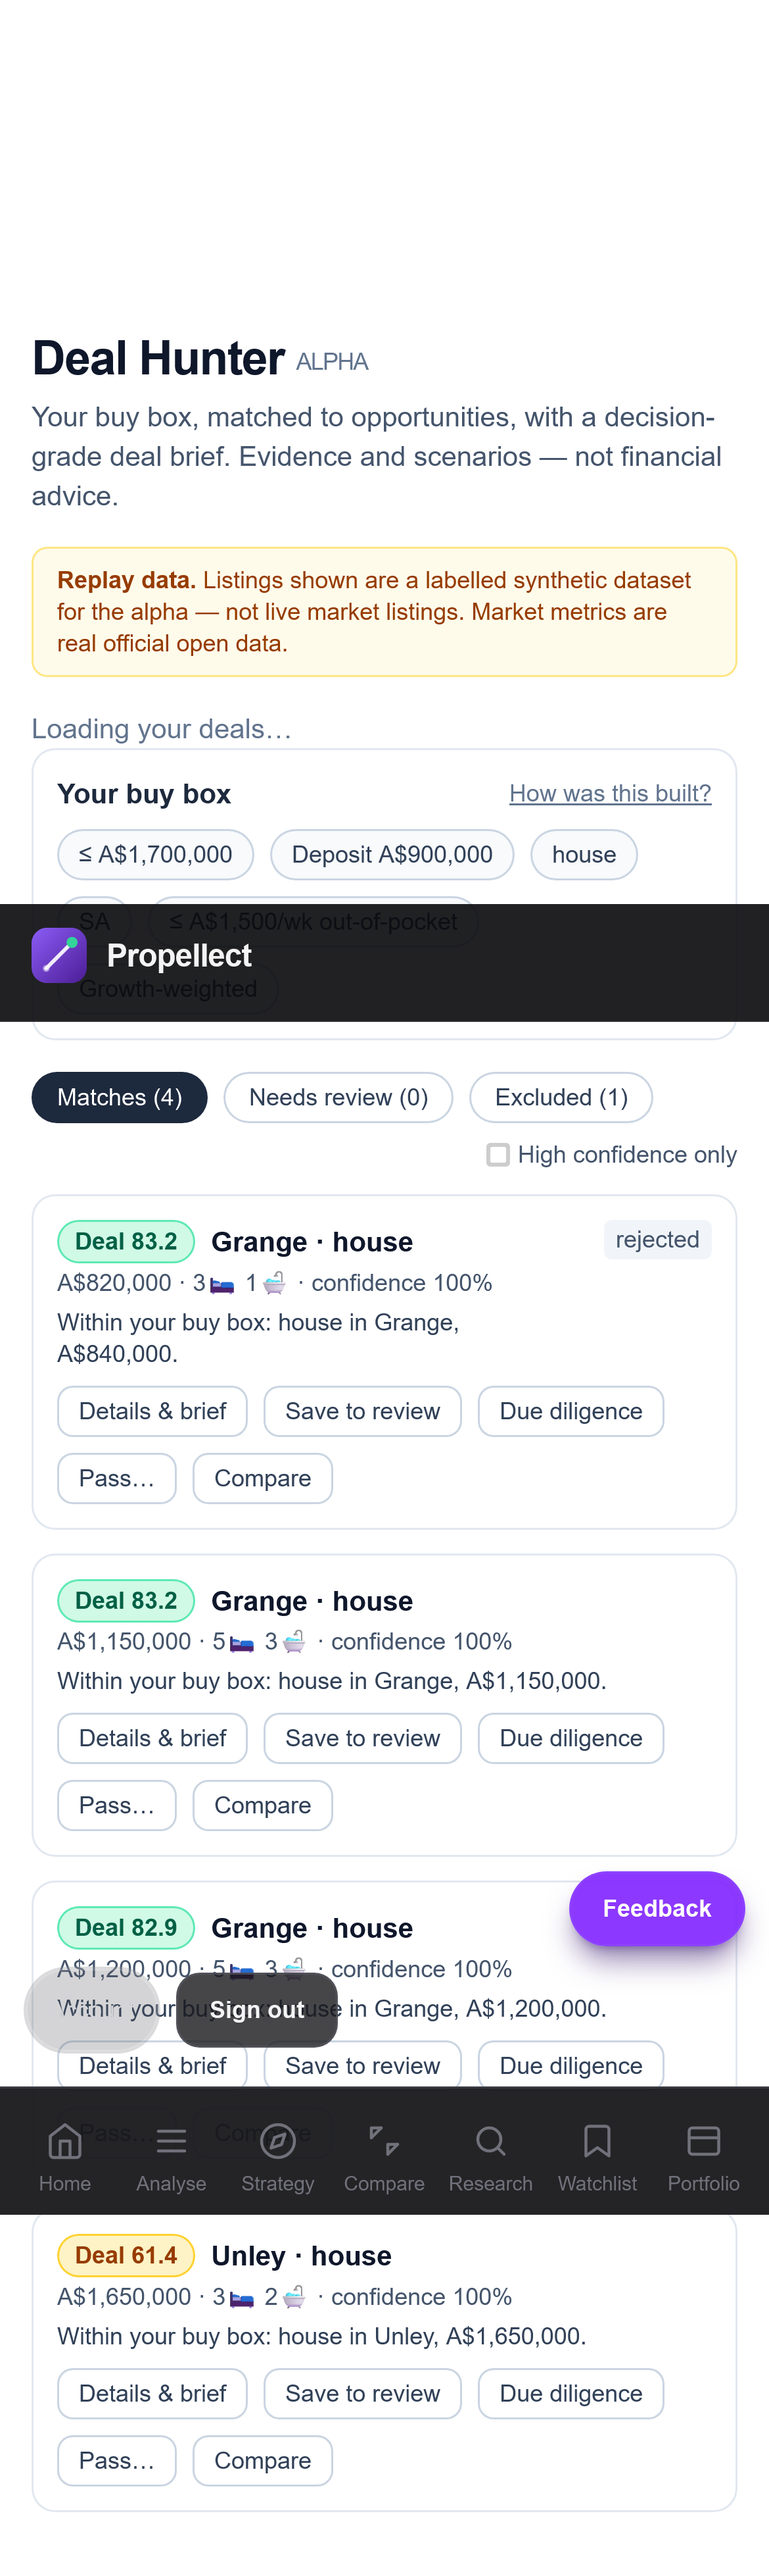
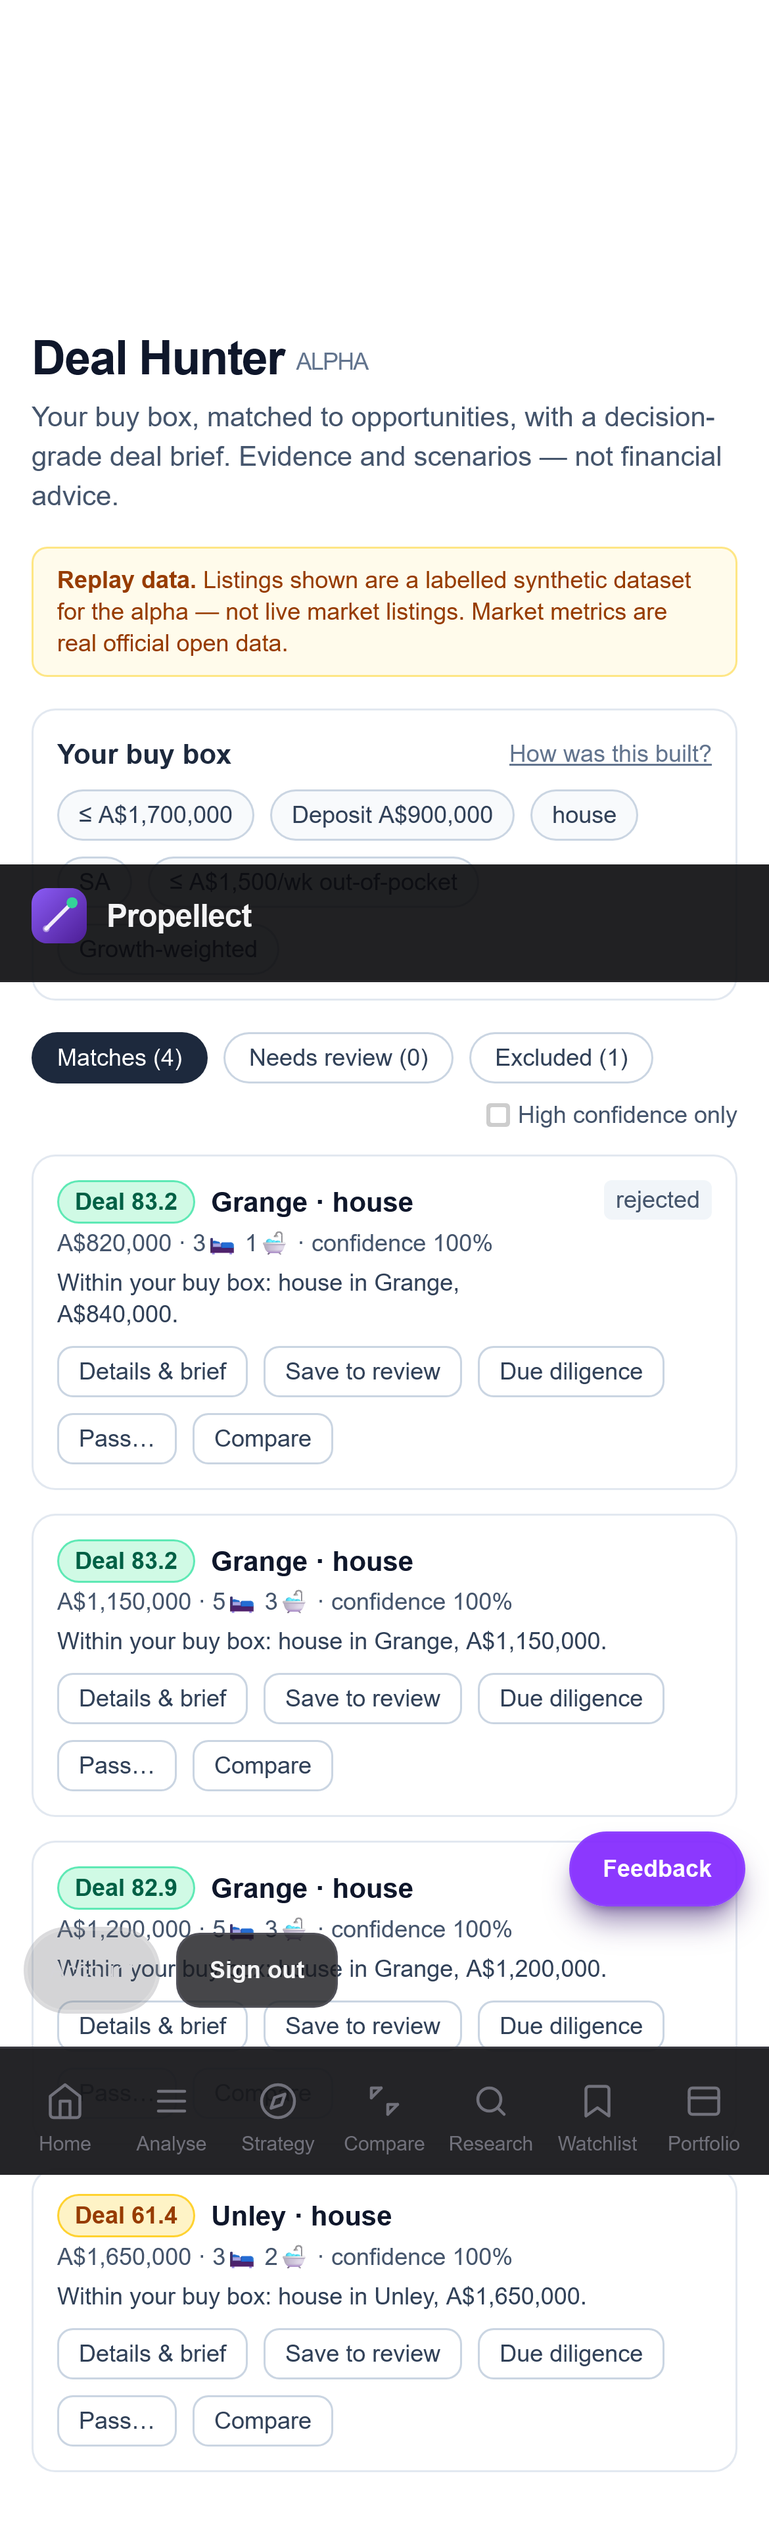
docs(v7c): final UAT evidence — 18/18 desktop+mobile PASS after P1 deploy
Deployed commit 7400333 verified: runtime binding configurationOk=true, both
refs mmqx...iqtx, productionRefDetected=false, serviceRoleConfigured=false.
Full 18-journey desktop(1440x900)+mobile(390x844) UAT: 18/18 pass, including
mobile-06 three-property comparison (P1 tray-occlusion fix confirmed). No
Production requests, no unexpected console errors, no failed requests, no
overlap/clipping. Replacement 06-compare.mobile.png captured.

Cleanup complete: UAT Auth user + data removed; zero residue; seed preserved
(core.official_observation=20). Production unchanged (auth.users=4, no V7
tables, 061-era baseline). deal-hunter-preview retained pending approval.

Evidence-only; no source/harness changes.

Changed region(s): [[0.0308, 0.4669, 0.9846, 0.965], [0.0, 0.1245, 1.0, 0.4981], [0.8615, 0.8093, 0.9846, 0.8716]]

diff --git a/docs/decisions/V7C_auth_routing_incident.md b/docs/decisions/V7C_auth_routing_incident.md
@@ -96,23 +96,27 @@ token-reuse/API path was blocked by the credential classifier and abandoned; the
   intact (UI "Add URL" only appends).
 - Evidence: `uat/v7c/.artifacts/dashboard-recon.json`, `branch-auth-after.json` (gitignored).
 - Production Auth config (`oshq`) NOT touched. Temp profile deleted; no dashboard auth persisted.
-- Functional confirmation pending: a fresh magic link must show `redirect_to` = the exact Preview
-  `/auth/callback` and land/stay on the Preview host.
+- Functional confirmation **DONE**: a fresh magic link showed `redirect_to` = the exact Preview
+  `/auth/callback`; sign-in landed and stayed on the Preview host; server-side a new mmqx session
+  was created (`sb-mmqxwwjshnpcqngciqtx-auth-token`), zero Production requests.
 
-## Browser UAT — results & findings (2026-08-15, deployed Preview d9c6fe1)
-Full desktop (1440×900) + mobile (iPhone 13 / WebKit) run against the isolated Preview after the
-auth fix. **17 passed / 1 failed / 0 skipped.** Isolation gate green on both projects; no request
-referenced the Production ref in any journey; journey-05 writes verified server-side in mmqx
-(`deal_pipeline_items=1`, `rejected_with_reason=1`, `deal_listing_feedback=1`). Curated screenshots
-in `docs/decisions/v7c_screenshots/` (15). Production reconfirmed: `auth.users=4`, no V7 tables.
+## Browser UAT — results & findings
+Full desktop (1440×900) + mobile (iPhone 13 / WebKit), single worker, against the isolated Preview.
+- **First run (deployed d9c6fe1):** 17 passed / 1 failed — sole failure mobile-06 (compare-tray
+  occlusion, below).
+- **Final run (deployed 7400333, after the P1 fix): 18 / 18 PASSED** — desktop 9/9 + mobile 9/9,
+  including mobile-06 three-property comparison at 390×844.
+Isolation gate green on both projects; no request referenced the Production ref in any journey;
+journey-05 writes verified server-side in mmqx (`deal_pipeline_items=1`, `rejected_with_reason=1`,
+`deal_listing_feedback=1`). 16 curated screenshots in `docs/decisions/v7c_screenshots/` (incl. the
+replacement `06-compare.mobile.png`). Production reconfirmed: `auth.users=4`, no V7 tables.
 
 Findings (UX severity):
-- **P1 (mobile) — FIXED in code, pending deploy verification.** The Deal Hunter *compare tray*
-  (`fixed bottom-0 z-30`) was occluded by the mobile bottom tab-nav (`fixed bottom-0 z-40`), making
-  the "Compare" action unreachable on mobile — the sole failing journey (mobile 06). Minimal fix:
+- **P1 (mobile) — FIXED + VERIFIED (commit 7400333, deploy verified).** The Deal Hunter *compare
+  tray* (`fixed bottom-0 z-30`) was occluded by the mobile bottom tab-nav (`fixed bottom-0 z-40`),
+  making the "Compare" action unreachable on mobile — the sole first-run failure (mobile 06). Fix:
   `components/deal-hunter/DealHunterClient.tsx` tray now `bottom-20 z-40 lg:bottom-0 lg:z-30`.
-  Desktop 06 (three-property comparison) passes. Not verifiable this session because the UAT runs
-  against the deployed commit and pushing/redeploying is out of scope per instruction.
+  After deploy, mobile-06 passes (18/18); desktop-06 already passed.
 - **P2 — Preview-only console noise (no action).** Vercel injects `vercel.live/.../feedback.js` on
   preview deployments; the app CSP correctly blocks it (absent in production). Excluded from the
   console-error gate for `vercel.live` only.
@@ -121,7 +125,14 @@ Findings (UX severity):
   heading-scoped Deal Brief sections; buy-box scoped `strategy` assertion; cross-tab comparison
   selection; centre-scroll `tap()` for mobile fixed chrome.
 
-## Outstanding cleanup (deferred, pending approval)
-- The confirmed mmqx Auth user (`ab…@gmail.com`, 12:18:23Z) is kept as evidence — remove during the
-  normal UAT cleanup once the routing fix is verified. The 20 labelled synthetic market rows are
-  untouched by this incident.
+## Cleanup — COMPLETED (2026-08-15, after 18/18)
+- Signed-out/revoked the isolated UAT session, then deleted the UAT Auth user
+  (`a10803f5-…`, `ab…@gmail.com`) and all its data: `investment_profiles`, `deal_pipeline_items`,
+  `deal_listing_feedback`, `waitlist`. Local `uat/v7c/.auth/state.json` removed.
+- **Zero UAT residue** confirmed in mmqx: auth users/sessions/refresh-tokens = 0; profiles/pipeline/
+  feedback/waitlist = 0.
+- **Seed preserved:** `core.official_observation` = **20** SYNTHETIC-UAT market-evidence rows intact
+  (+ `meta.metric_provider` = 4 reference rows). No market/metric table was touched.
+- **Production reconfirmed unchanged:** `auth.users=4`, 0 recent sessions, no V7 tables, latest
+  applied migration `20260808064655` (061-era baseline; no 062/063/064).
+- `deal-hunter-preview` branch retained (deletion awaits Abdul's separate approval).

diff --git a/docs/decisions/V7C_preview_UAT_evidence.md b/docs/decisions/V7C_preview_UAT_evidence.md
@@ -109,9 +109,9 @@ Only curated `docs/decisions/v7c_screenshots/*.png` + `uat-result.json` are comm
 <!-- AUTOMATED-UAT-RESULTS -->
 
 ## Automated browser UAT results (Playwright)
-Generated 2026-08-15T07:18:04.554Z against `https://property-ai-git-v7c-preview-1c5599-zeebusiness93-2304s-projects.vercel.app` — isolated ref `mmqx...iqtx`.
+Generated 2026-08-15T09:28:37.086Z against `https://property-ai-git-v7c-preview-1c5599-zeebusiness93-2304s-projects.vercel.app` — isolated ref `mmqx...iqtx`.
 
-**Totals:** 17/18 passed (1 failed).
+**Totals:** 18/18 passed (0 failed).
 
 | Journey | Viewport | Result |
 |---|---|---|
@@ -126,7 +126,7 @@ Generated 2026-08-15T07:18:04.554Z against `https://property-ai-git-v7c-preview-
 | 05 save / pass(+reason) / reject + persistence, verified via the API | desktop | PASS |
 | 05 save / pass(+reason) / reject + persistence, verified via the API | mobile | PASS |
 | 06 three-property comparison | desktop | PASS |
-| 06 three-property comparison | mobile | **FAIL** |
+| 06 three-property comparison | mobile | PASS |
 | 08 refresh + sign-in persistence keeps the buy box | desktop | PASS |
 | 08 refresh + sign-in persistence keeps the buy box | mobile | PASS |
 | 09 synthetic/replay data is clearly labelled | desktop | PASS |
@@ -134,5 +134,5 @@ Generated 2026-08-15T07:18:04.554Z against `https://property-ai-git-v7c-preview-
 | preview binds ONLY to the isolated deal-hunter-preview branch | desktop | PASS |
 | preview binds ONLY to the isolated deal-hunter-preview branch | mobile | PASS |
 
-**Curated screenshots (15):** `01-authentication.desktop.png`, `01-authentication.mobile.png`, `02-buybox.desktop.png`, `02-buybox.mobile.png`, `03-ranked-feed.desktop.png`, `03-ranked-feed.mobile.png`, `04-deal-detail-brief.desktop.png`, `04-deal-detail-brief.mobile.png`, `05-save-pass-reject.desktop.png`, `05-save-pass-reject.mobile.png`, `06-compare.desktop.png`, `08-refresh-persistence.desktop.png`, `08-refresh-persistence.mobile.png`, `09-synthetic-labelling.desktop.png`, `09-synthetic-labelling.mobile.png`.
+**Curated screenshots (16):** `01-authentication.desktop.png`, `01-authentication.mobile.png`, `02-buybox.desktop.png`, `02-buybox.mobile.png`, `03-ranked-feed.desktop.png`, `03-ranked-feed.mobile.png`, `04-deal-detail-brief.desktop.png`, `04-deal-detail-brief.mobile.png`, `05-save-pass-reject.desktop.png`, `05-save-pass-reject.mobile.png`, `06-compare.desktop.png`, `06-compare.mobile.png`, `08-refresh-persistence.desktop.png`, `08-refresh-persistence.mobile.png`, `09-synthetic-labelling.desktop.png`, `09-synthetic-labelling.mobile.png`.
 <!-- AUTOMATED-UAT-RESULTS -->
